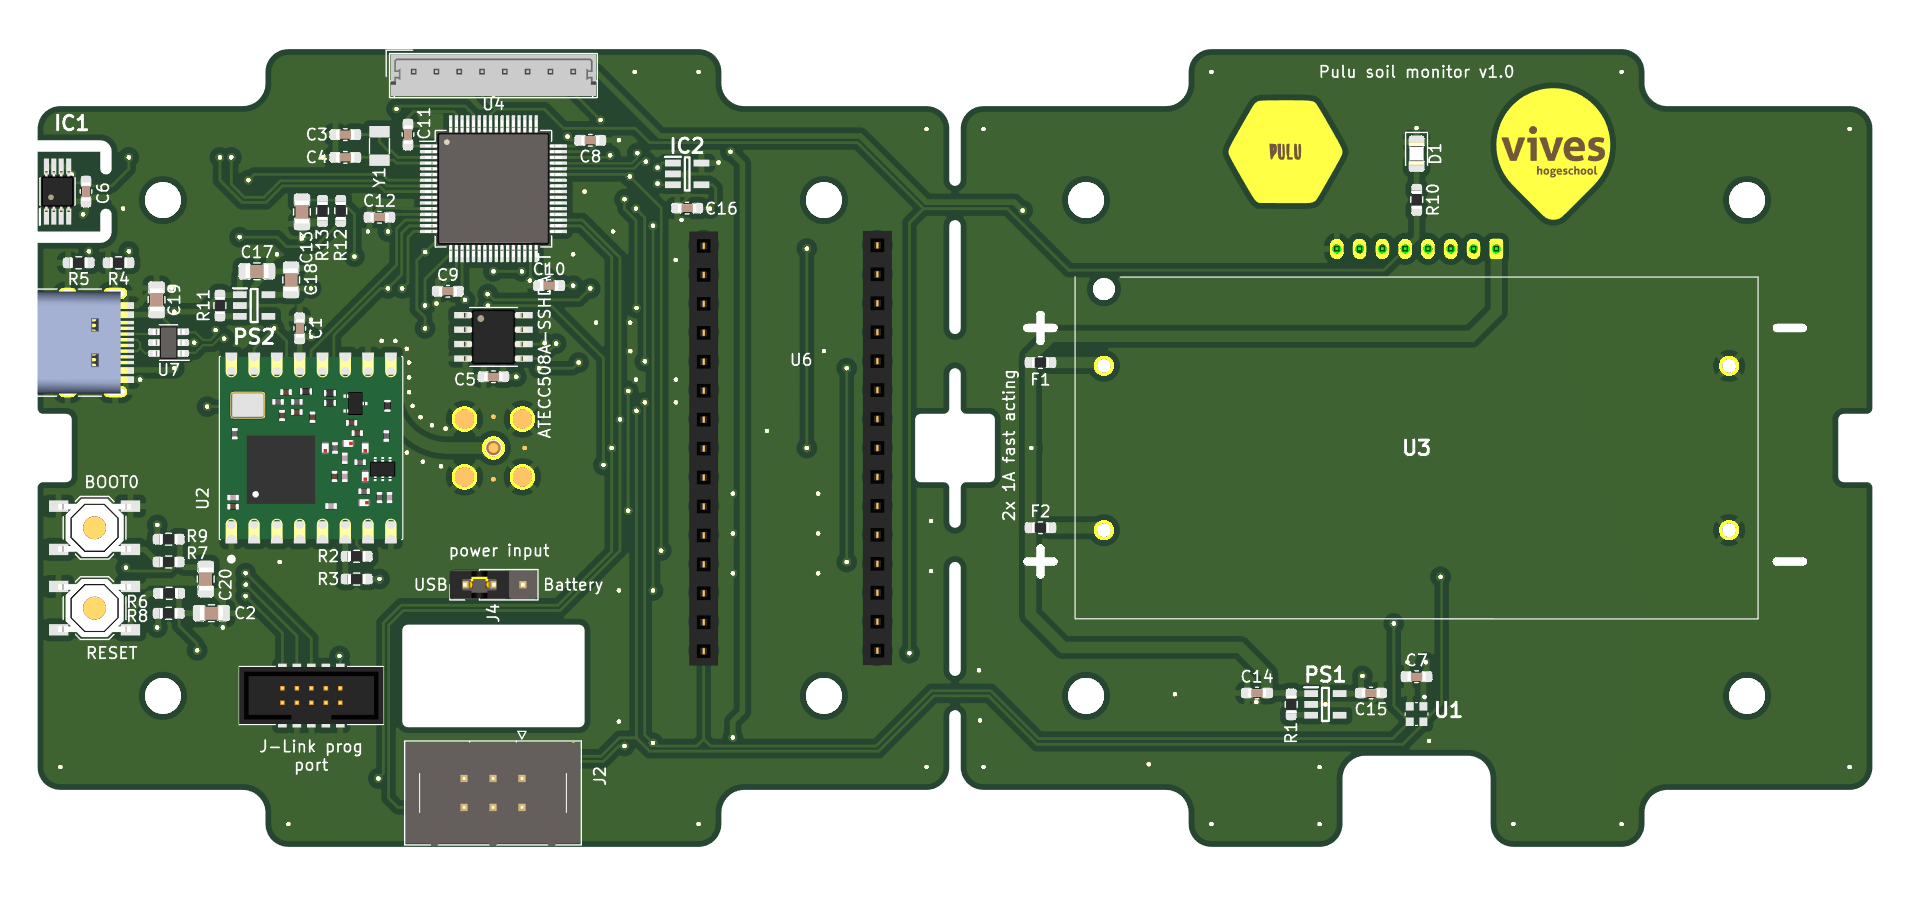
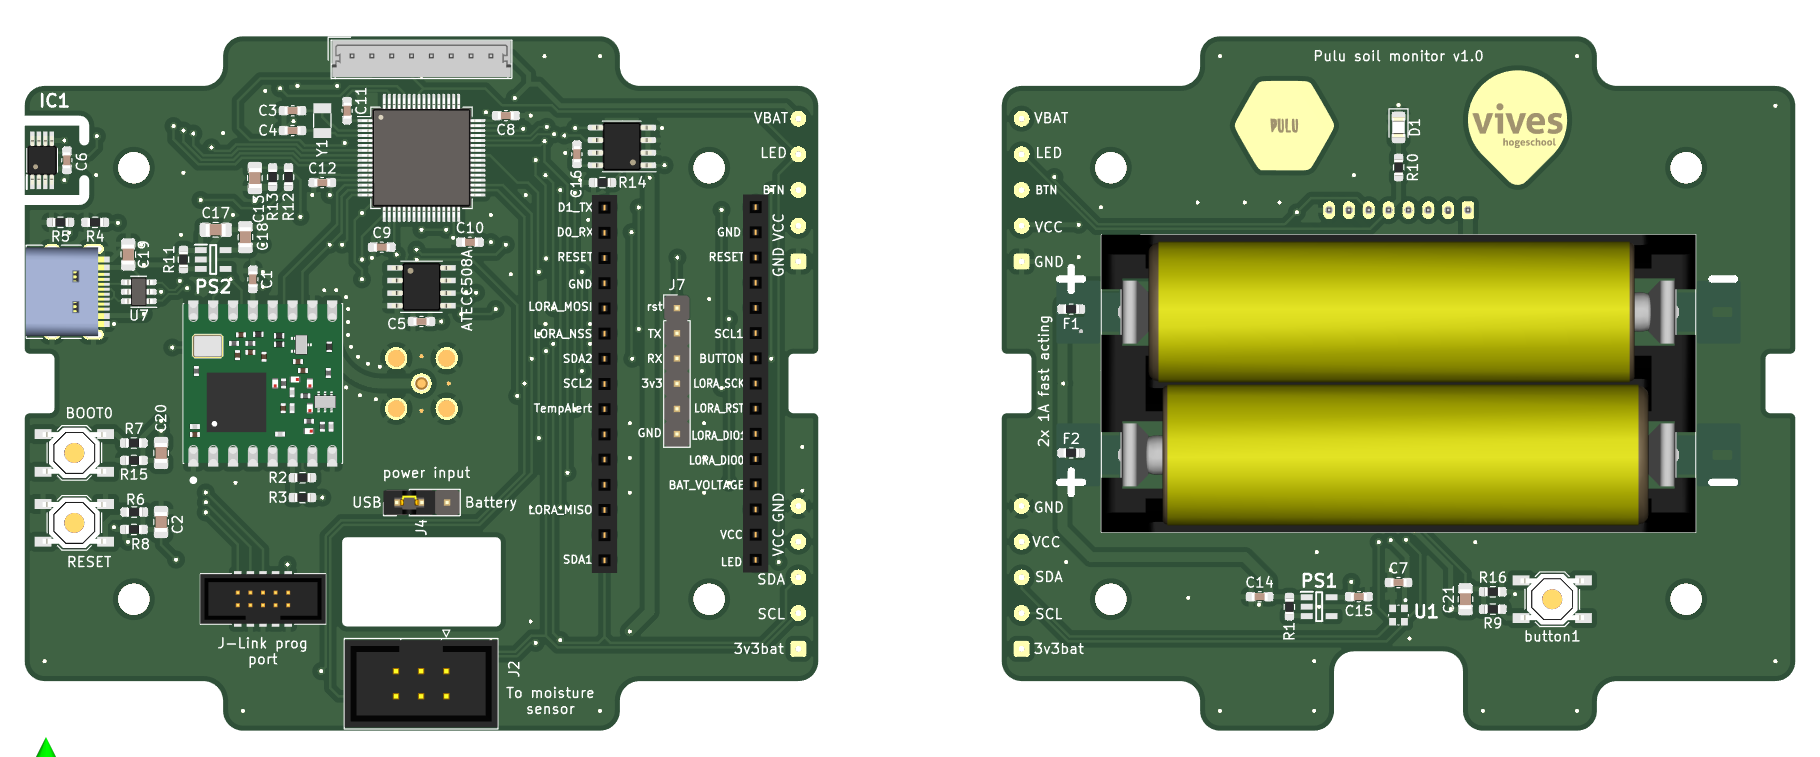
added all component and pin info of µC

diff --git a/README.md b/README.md
@@ -163,6 +163,34 @@ Up to 24 capacitive sensing channels: support touchkey, linear and rotary touch 
 |---|---|
 | ![Schematic](./img/Microcontroller_schematic.PNG) | ![Datasheet](./img/Microcontroller_datasheet.PNG) |
 
+**Capacitors:**  
+We are using the capacitors that are connected to VCC and/or GND as [decouple capacitors](https://en.wikipedia.org/wiki/Decoupling_capacitor).  
+This is to reduce the voltage spikes of the power supply.  
+So we ensure a stable supply without chance of damage to the components.  
+
+**Resistors:**  
+We are using the resistors that are connected to VCC and/or GND and by the switches as [pull-up/pull-down resistor](https://en.wikipedia.org/wiki/Pull-up_resistor).  
+This is to ensure a known state for a signal (0/1) when the switch is opened or closed.  
+So don't get false values.  
+
+We are using the resitor by the LED as [ballast resistor](https://eepower.com/resistor-guide/resistor-applications/resistor-for-led/#).  
+This is used to limit the current through the LED and to prevent excess current that can burn out the LED.  
+We are using 360 Ohm resistor to ensure the LED can glow up nicely.  
+You can calculate the resistor yourself by using this formula: R = (V-Vled)/I  
+Where V is the voltage source, VLED is the LED voltage, and I is the LED current.  
+
+**NRST pin:**  
+The NRST pin is used to exit stanby mode or to fix most of the common failures (unexpected reset and program counter corruption) of the chip.  
+We have to pull the pin low for that, by pressing on the connected switch.  
+
+**Boot0**  
+The BOOT0 pin is used to select one of three boot options:  
+• Boot from user Flash  
+• Boot from system memory  
+• Boot from embedded SRAM  
+The boot loader is located in system memory.  
+It is used to reprogram the Flash memory by using I2C in Device mode through DFU (device firmware upgrade).  
+
 #### µC_Pinout-table
 
 | Pin number | Pin name | Pin type | function |
@@ -255,6 +283,8 @@ Built-in temperature sensor and low battery indicator.
 | Pinout of schematic | Pinout of datasheet |
 |---|---|
 |![Schematic](./img/Lora_schematic.PNG) | ![Datasheet](./img/Lora_datasheet.PNG) |
+
+We use 
 
 #### Lora_Pinout-table
 
